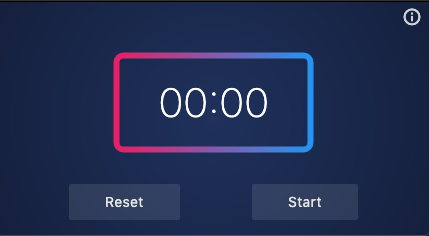
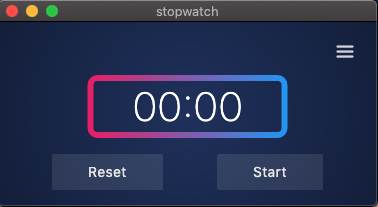
Improved code base

diff --git a/lib/widgets/timer_text.dart b/lib/widgets/timer_text.dart
@@ -1,9 +1,9 @@
 import 'dart:async';
 
 import 'package:flutter/material.dart';
-import 'package:stopwatch/models/elapsed_time.dart';
+import 'package:stopwatch/models/time.dart';
 import 'package:stopwatch/models/watch_params.dart';
-import 'package:stopwatch/widgets/minutes_and_seconds.dart';
+import 'package:stopwatch/widgets/time_digits.dart';
 import 'package:stopwatch/widgets/unicorn_outline_button.dart';
 
 class TimerText extends StatefulWidget {
@@ -21,7 +21,7 @@ class TimerTextState extends State<TimerText> {
 
   @override
   void initState() {
-    timer = new Timer.periodic(new Duration(milliseconds: watchParams.timerMillisecondsRefreshRate), callback);
+    timer = new Timer.periodic(new Duration(milliseconds: watchParams.timerMillisecondsRefreshRate), tickCallback);
     super.initState();
   }
 
@@ -32,17 +32,12 @@ class TimerTextState extends State<TimerText> {
     super.dispose();
   }
 
-  void callback(Timer timer) {
+  void tickCallback(Timer timer) {
     if (milliseconds != watchParams.stopwatch.elapsedMilliseconds) {
       milliseconds = watchParams.stopwatch.elapsedMilliseconds;
-      final int hundreds = (milliseconds / 10).truncate();
-      final int seconds = (hundreds / 100).truncate();
+      final int seconds = (milliseconds / 1000).truncate();
       final int minutes = (seconds / 60).truncate();
-      final ElapsedTime elapsedTime = new ElapsedTime(
-        hundreds: hundreds,
-        seconds: seconds,
-        minutes: minutes,
-      );
+      final Time elapsedTime = new Time(seconds: seconds, minutes: minutes);
       for (final listener in watchParams.timerListeners) {
         listener(elapsedTime);
       }
@@ -66,7 +61,7 @@ class TimerTextState extends State<TimerText> {
                     alignment: Alignment.center,
                     height: 100,
                     width: 200,
-                    child: MinutesAndSeconds(dependencies: watchParams))),
+                    child: TimeDigits(dependencies: watchParams))),
             onPressed: () {},
           ),
         ),

diff --git a/lib/widgets/time_digits.dart b/lib/widgets/time_digits.dart
@@ -1,17 +1,16 @@
 import 'package:flutter/material.dart';
-import 'package:stopwatch/models/elapsed_time.dart';
+import 'package:stopwatch/models/time.dart';
 import 'package:stopwatch/models/watch_params.dart';
-import 'package:stopwatch/views/home_view.dart';
 
-class MinutesAndSeconds extends StatefulWidget {
-  MinutesAndSeconds({this.dependencies});
+class TimeDigits extends StatefulWidget {
+  TimeDigits({this.dependencies});
   final WatchParams dependencies;
 
-  MinutesAndSecondsState createState() => new MinutesAndSecondsState(dependencies: dependencies);
+  TimeDigitsState createState() => new TimeDigitsState(dependencies: dependencies);
 }
 
-class MinutesAndSecondsState extends State<MinutesAndSeconds> {
-  MinutesAndSecondsState({this.dependencies});
+class TimeDigitsState extends State<TimeDigits> {
+  TimeDigitsState({this.dependencies});
   final WatchParams dependencies;
 
   int minutes = 0;
@@ -23,7 +22,7 @@ class MinutesAndSecondsState extends State<MinutesAndSeconds> {
     super.initState();
   }
 
-  void onTick(ElapsedTime elapsed) {
+  void onTick(Time elapsed) {
     if (elapsed.minutes != minutes || elapsed.seconds != seconds) {
       setState(() {
         minutes = elapsed.minutes;

diff --git a/lib/views/home_view.dart b/lib/views/home_view.dart
@@ -1,4 +1,5 @@
 import 'package:flutter/material.dart';
+import 'package:flutter_icons/flutter_icons.dart';
 import 'package:stopwatch/models/watch_params.dart';
 import 'package:stopwatch/views/about_view.dart';
 import 'package:stopwatch/widgets/timer_text.dart';
@@ -38,12 +39,11 @@ class HomeViewState extends State<HomeView> {
             alignment: Alignment.centerRight,
             child: Padding(
               padding: const EdgeInsets.only(right: 8.0),
-              child: GestureDetector(
-                  onTap: () => Navigator.push(context, MaterialPageRoute(builder: (context) => AboutView())),
-                  child: Icon(Icons.info_outline, size: 20, color: Colors.white.withOpacity(0.8))),
+              child: IconButton(
+                  onPressed: () => Navigator.push(context, MaterialPageRoute(builder: (context) => AboutView())),
+                  icon: Icon(Feather.menu, size: 20, color: Colors.white.withOpacity(0.8))),
             ),
           ),
-          SizedBox(height: 10),
           Expanded(child: Center(child: TimerText(watchParams: watchParams))),
           Padding(
             padding: const EdgeInsets.symmetric(vertical: 10.0),

diff --git a/lib/main.dart b/lib/main.dart
@@ -1,5 +1,4 @@
 import 'package:flutter/material.dart';
-import 'package:flutter/services.dart';
 import 'package:stopwatch/views/home_view.dart';
 
 void main() {
@@ -9,26 +8,15 @@ void main() {
 class MyApp extends StatelessWidget {
   @override
   Widget build(BuildContext context) {
-    SystemChrome.setEnabledSystemUIOverlays([SystemUiOverlay.top]);
-
     return MaterialApp(
       showPerformanceOverlay: false,
       debugShowCheckedModeBanner: false,
       title: 'Stopwatch',
-      home: MyHomePage(),
-    );
-  }
-}
-
-class MyHomePage extends StatelessWidget {
-  MyHomePage({Key key}) : super(key: key);
-
-  @override
-  Widget build(BuildContext context) {
-    return Scaffold(
-      extendBodyBehindAppBar: true,
-      extendBody: true,
-      body: HomeView(),
+      home: Scaffold(
+        extendBodyBehindAppBar: true,
+        extendBody: true,
+        body: HomeView(),
+      ),
     );
   }
 }

diff --git a/lib/models/watch_params.dart b/lib/models/watch_params.dart
@@ -1,8 +1,8 @@
 import 'package:flutter/material.dart';
-import 'package:stopwatch/models/elapsed_time.dart';
+import 'package:stopwatch/models/time.dart';
 
 class WatchParams {
-  final List<ValueChanged<ElapsedTime>> timerListeners = <ValueChanged<ElapsedTime>>[];
+  final List<ValueChanged<Time>> timerListeners = <ValueChanged<Time>>[];
   final TextStyle textStyle = const TextStyle(fontSize: 40.0, fontFamily: "SF-Thin", color: Colors.white);
   final Stopwatch stopwatch = new Stopwatch();
   final int timerMillisecondsRefreshRate = 30;

diff --git a/lib/views/about_view.dart b/lib/views/about_view.dart
@@ -32,7 +32,7 @@ class AboutView extends StatelessWidget {
               alignment: Alignment.topLeft,
               child: IconButton(
                 icon: Icon(
-                  Icons.arrow_back_ios,
+                  Feather.arrow_left,
                   color: Colors.white.withOpacity(0.8),
                   size: 20,
                 ),

diff --git a/lib/models/time.dart b/lib/models/time.dart
@@ -1,0 +1,6 @@
+class Time {
+  final int seconds;
+  final int minutes;
+
+  Time({this.seconds, this.minutes});
+}
